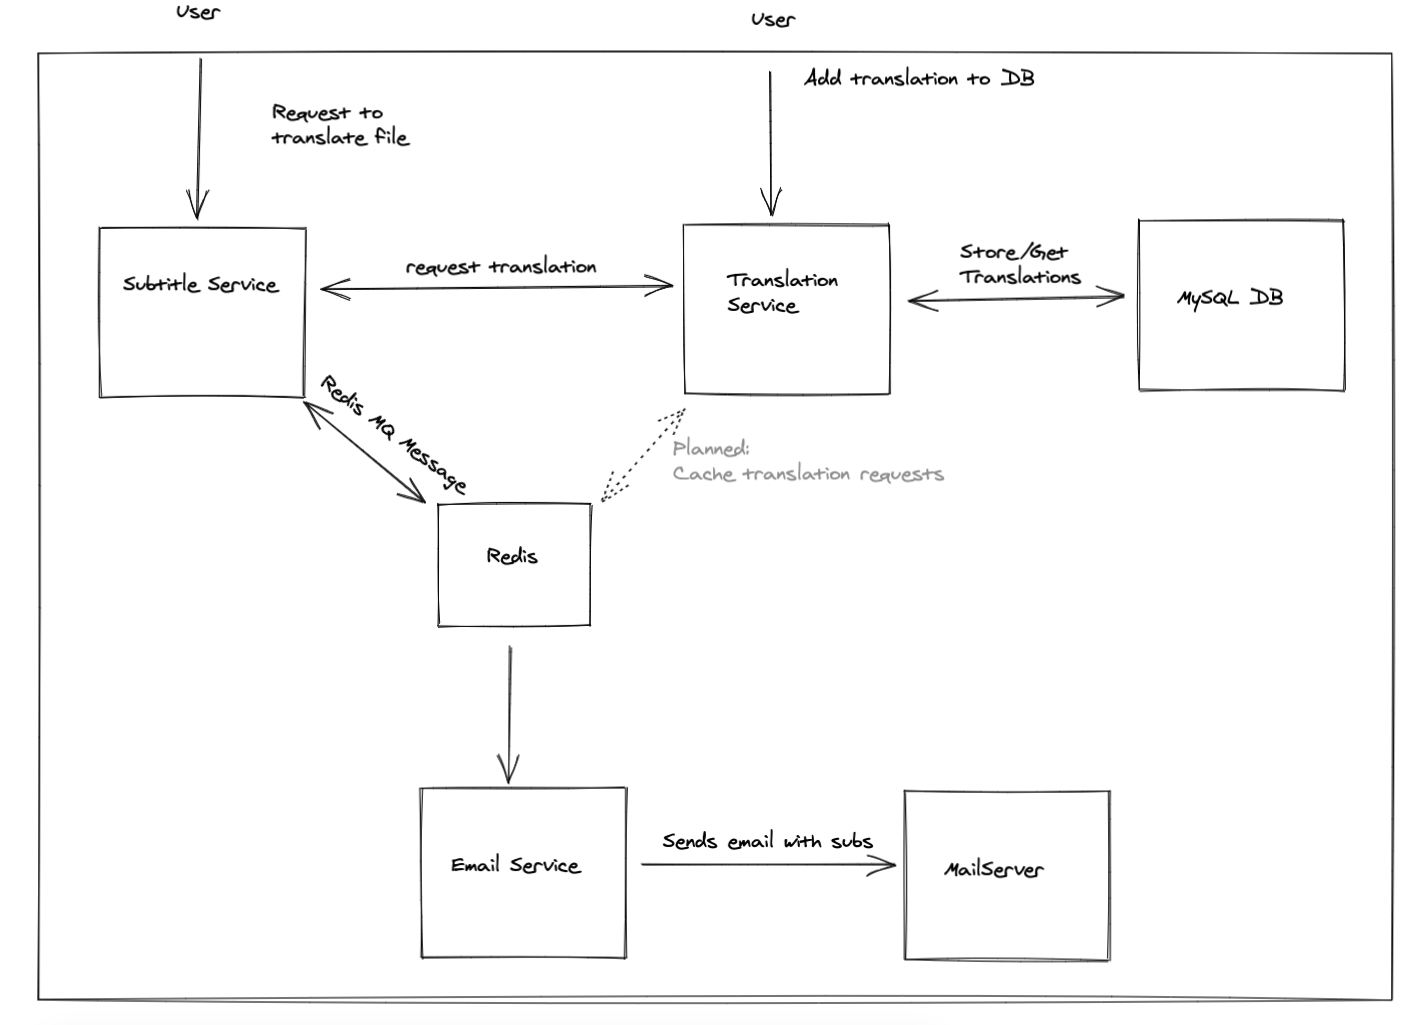
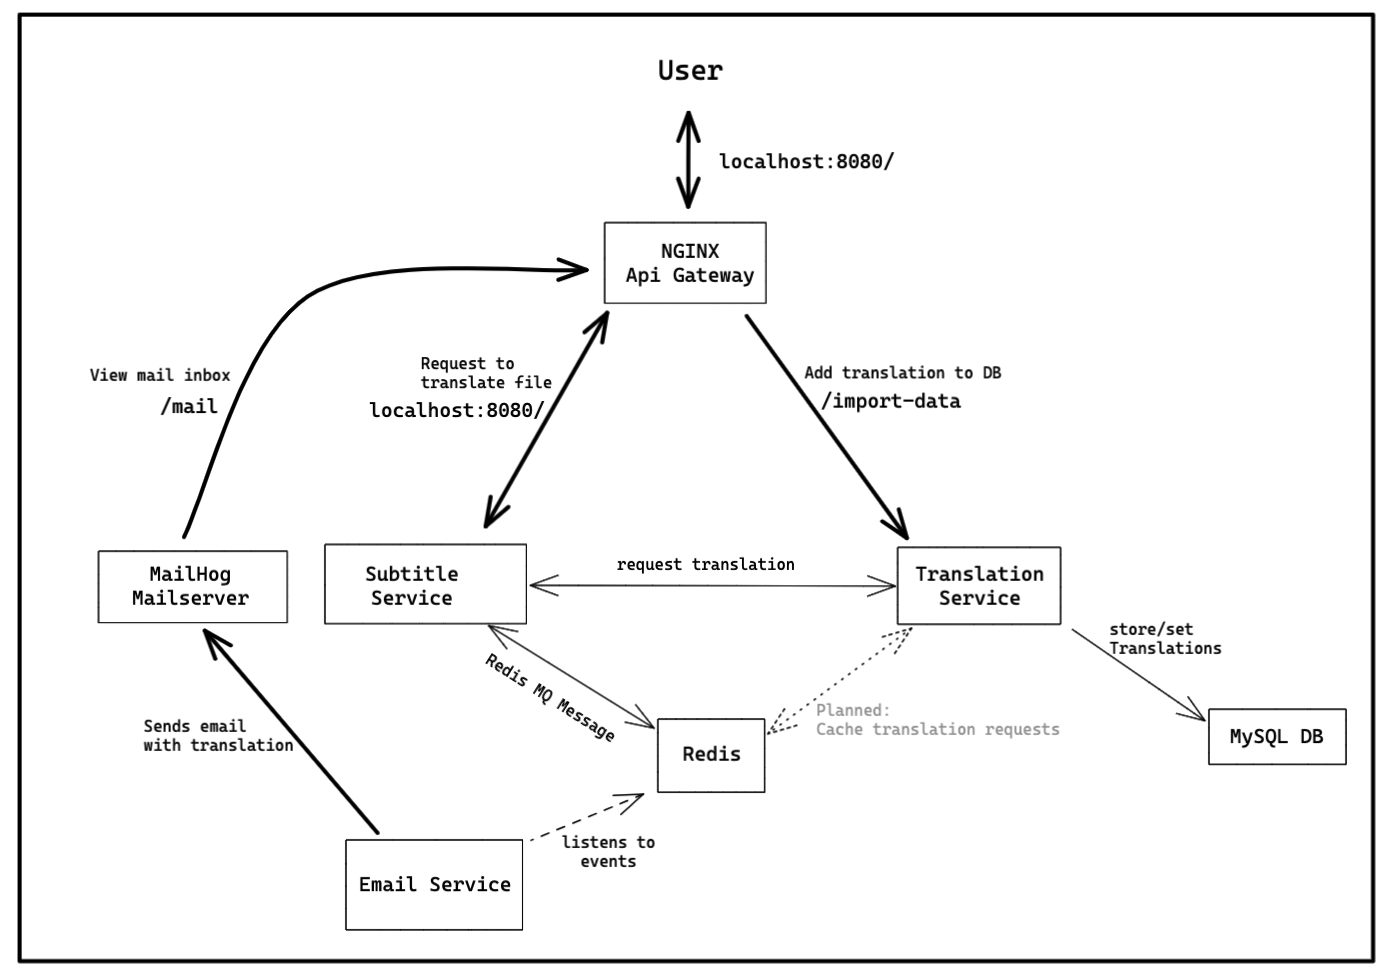
Add Nginx API gateway, scripts better named,docker compose improvements

diff --git a/README.md b/README.md
@@ -127,28 +127,50 @@ I couldn't get the project to work properly on WSL2 so please use MacOS or a Lin
 ### Setup
 
 1. In the main project folder run `npm run setup` to install all required modules for all services and add permissions to the required files
-2. Run `npm run build-dev` to build the containers and start them up - in this mode you can modify services and containers will auto-restart with the new changes
-3. Alternatively run `npm run build-prod` - this would build and run the containers in isolation and would simulate a production env.
-4. After that you can run either `npm run up-dev` or `npm run up-prod` to start up the containers without rebuilding them
+2. Run `npm run dev-build` to build the containers and start them up - in this mode you can modify services and containers will auto-restart with the new changes
+3. Alternatively run `npm run prod-build` - this would build and run the containers in isolation and would simulate a production enviroment: containers not linked to project folders, no hot reload, different logging level.
+4. After that you can run either `npm run dev-up` or `npm run prod-up` to start up the containers without rebuilding them
 
 ### Usage
 
-- to save translation data send a post request to `http://localhost:8100/import-data` with a JSON in the following format:
+- to save translation data send a post request to `http://localhost:8080/import-data/` with a JSON in the following format:
 
-```
-[
-  {
-    "source": "Hello World",
-    "target": "Hallo Welt",
-    "sourceLanguage": "en",
-    "targetLanguage": "de"
-  }
-]
-```
+  - as an array of _translation units_ :
+    ```json
+    [
+      {
+        "source": "I am Arwen - I've come to help you.",
+        "target": "Ich bin Arwen - Ich bin gekommen, um dir zu helfen.",
+        "sourceLanguage": "en",
+        "targetLanguage": "de"
+      },
+      {
+        "source": "Come back to the light.",
+        "target": "Komm zurück zum Licht.",
+        "sourceLanguage": "en",
+        "targetLanguage": "de"
+      },
+      {
+        "source": "Nooo, my precious!!.",
+        "target": "Nein, my Schatz!!.",
+        "sourceLanguage": "en",
+        "targetLanguage": "de"
+      }
+    ]
+    ```
+  - or just one _translation unit_
+    ```json
+    {
+      "source": "I love german bureaucracy.",
+      "target": "Ich liebe deutsche Bürokratie.",
+      "sourceLanguage": "en",
+      "targetLanguage": "de"
+    }
+    ```
 
-- To request a translation go to `http://localhost:8070/` select your subtitle file, target language and email address - just make sure there's already translation data saved as indicated in the previous step :)
+- To request a translation go to `http://localhost:8080/` select your subtitle file, target language and email address - just make sure there's already translation data saved as indicated in the previous step :)
 
-- To view resulting email and attachment go to `http://localhost:8025/`
+- To view resulting email and attachment go to `http://localhost:8080/mail/`
   - Click on an email to view message
   - Click on the`MIME` tab where you can download the resulting subtitle
 
@@ -171,4 +193,4 @@ After i make the PR i still want to work on this project as it is a lot of fun
 1. Finish tests :(
 2. More error handling and bugfixes
 3. Add translation caching
-4. NGINX Api Gateway + Swagger
+4. Swagger
